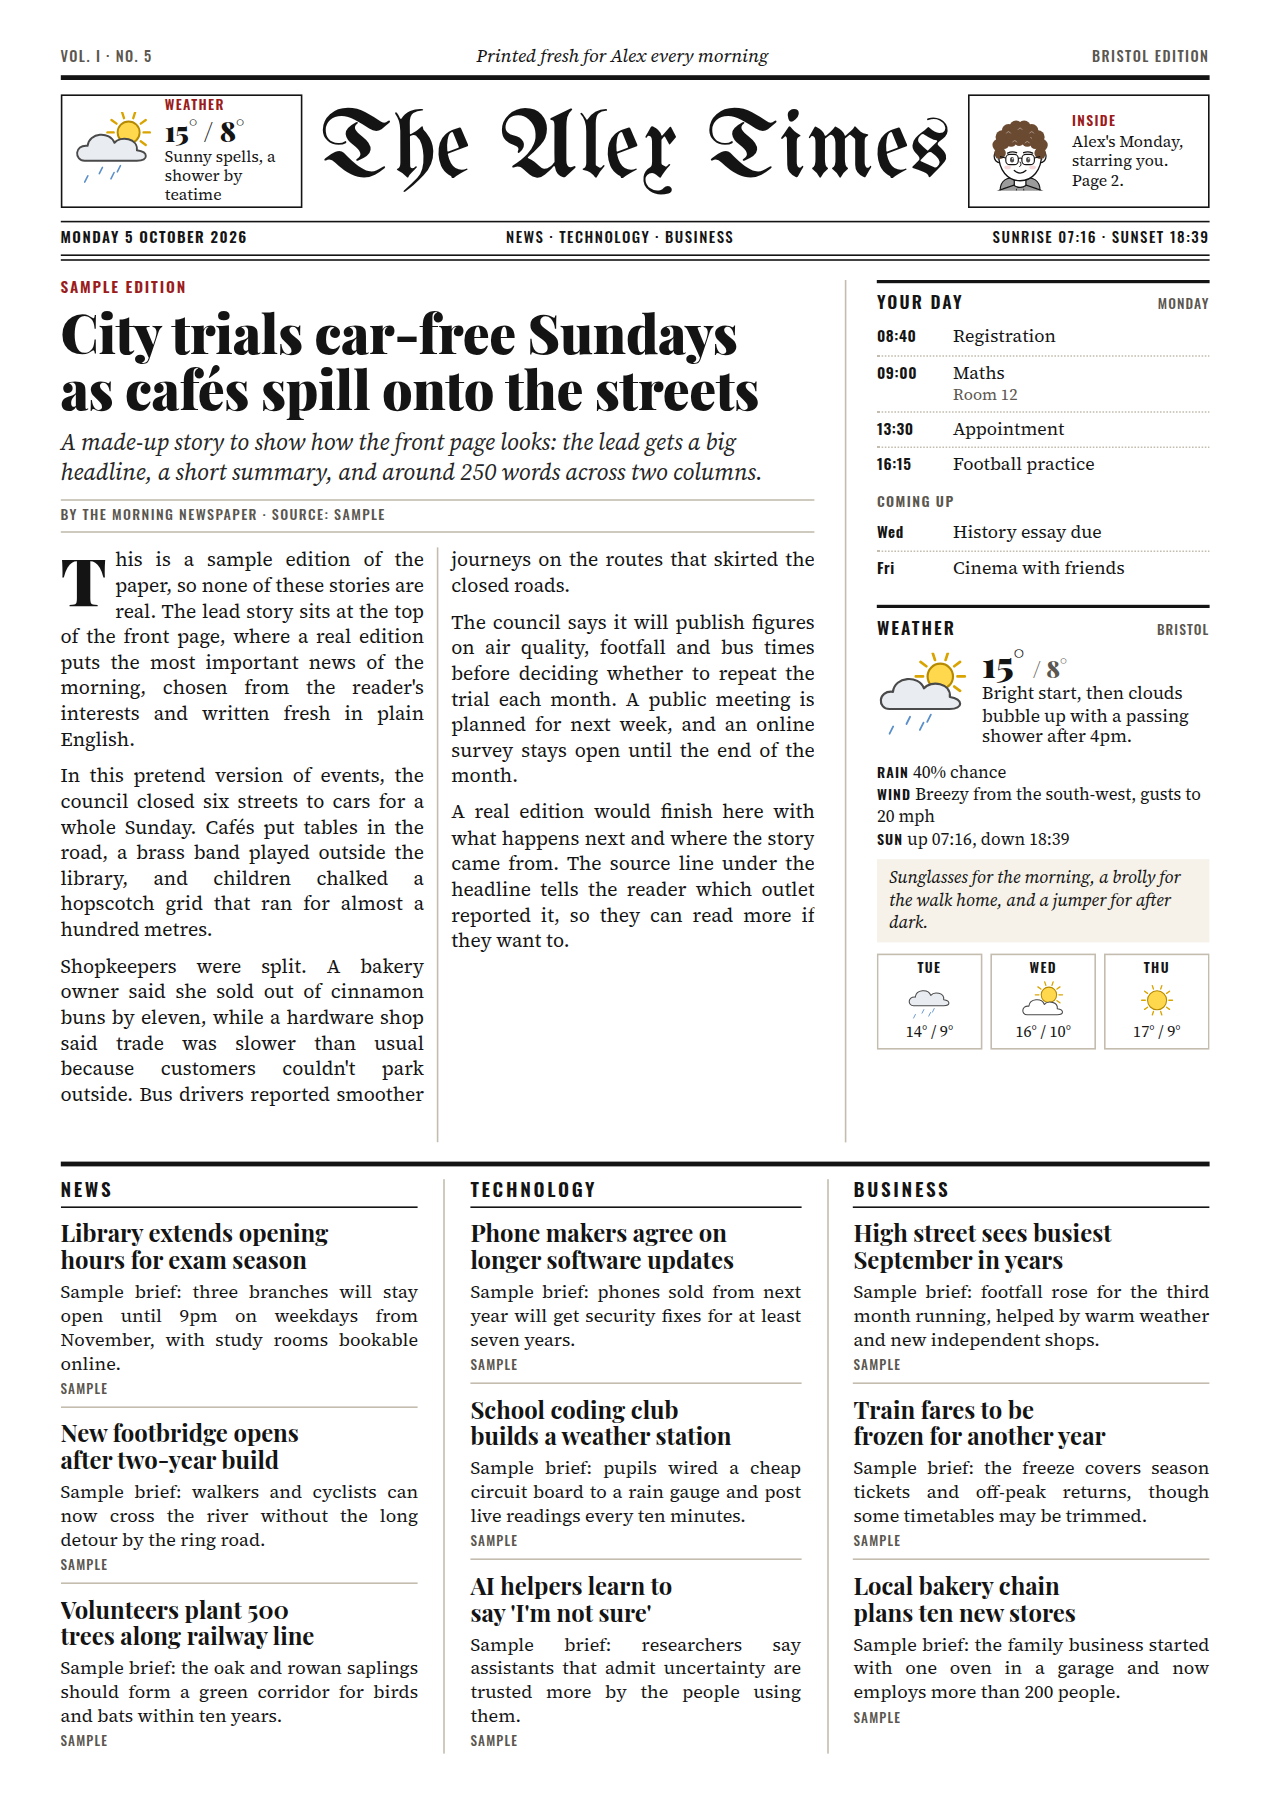
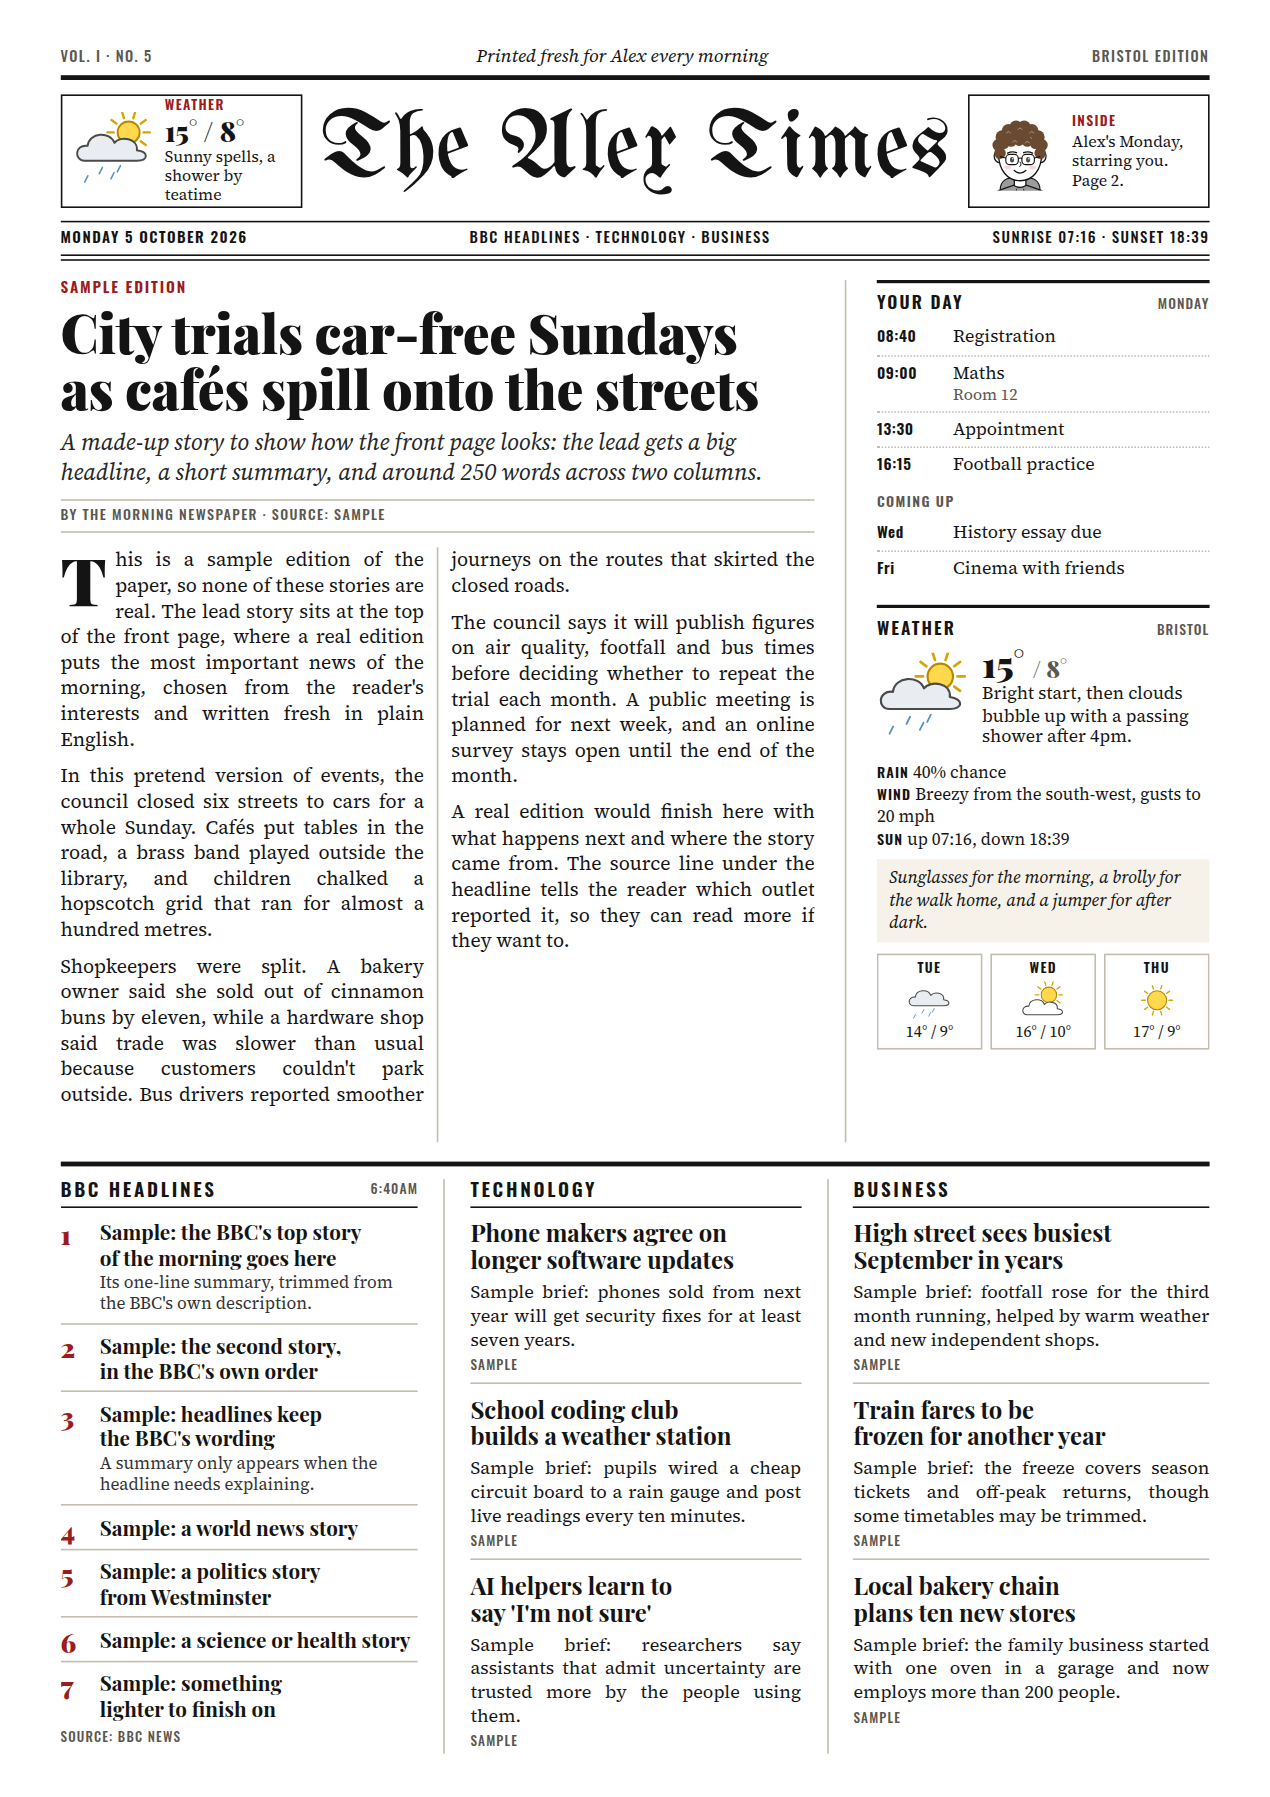
Add the day's BBC headlines to the front page
A numbered "BBC headlines" box now takes the first column of the
front-page row: the BBC's top stories, in the feed's order and wording.

- gather reads the feed set in profile.headlines into top_headlines.
- The box replaces the general News section; the other interests keep
  their columns.
- The BBC blocks Claude's web search, so if the feed is unreachable the
  box falls back to the BBC newsletter's top stories, or to "Today's
  headlines" from other outlets, and the report names the blocked host.

Claude-Session: https://claude.ai/code/session_01QNaBoxqUsPigFQNTbdkwPa

Changed region(s): [[0.0307, 0.6544, 0.3378, 0.9972], [0.3685, 0.1247, 0.6142, 0.1558], [0.3071, 0.6544, 0.3378, 0.6856]]

diff --git a/paper/templates/paper.css b/paper/templates/paper.css
@@ -129,6 +129,20 @@ p { margin: 0; }
   font: 600 9pt/1 var(--label); letter-spacing: .14em; text-transform: uppercase; margin: 0 0 2mm;
   padding-bottom: 1.3mm; border-bottom: .8pt solid var(--ink);
 }
+.section h3 small { float: right; font: 500 6.4pt/1.4 var(--label); color: var(--muted); letter-spacing: .08em; }
+.hl-list { list-style: none; margin: 0; padding: 0; counter-reset: hl; }
+.hl-list li {
+  counter-increment: hl; position: relative; padding: 0 0 1.5mm 6.5mm; margin-bottom: 1.5mm;
+  border-bottom: .5pt solid var(--hair);
+}
+.hl-list li:last-child { border-bottom: 0; margin-bottom: 0; padding-bottom: 0; }
+.hl-list li::before {
+  content: counter(hl); position: absolute; left: 0; top: .2mm;
+  font: 900 12.5pt/1 var(--display); color: var(--accent);
+}
+.hl-h { display: block; font: 700 9.7pt/1.17 var(--display); text-wrap: balance; }
+.hl-s { display: block; margin-top: .5mm; font-size: 7.9pt; line-height: 1.26; color: #333; }
+.headlines .src { margin-top: 1.6mm; }
 .story { padding-bottom: 2mm; margin-bottom: 2mm; border-bottom: .5pt solid var(--hair); }
 .story:last-child { border-bottom: 0; margin-bottom: 0; padding-bottom: 0; }
 .story h4 { font: 700 11.2pt/1.13 var(--display); margin: 0 0 1.1mm; text-wrap: balance; }

diff --git a/paper/render.py b/paper/render.py
@@ -24,6 +24,9 @@ FONTS = PKG / "fonts"
 BUILD = prof.ROOT / "build"
 EDITIONS = prof.ROOT / "editions"
 
+# Sections a front-page headlines box makes redundant (dropped first when space runs out).
+GENERAL_NEWS = {"news", "general news", "top stories", "headlines", "uk", "world"}
+
 FONT_FACES = [
     ("UnifrakturMaguntia", 400, "normal", "UnifrakturMaguntia-400.ttf"),
     ("Playfair Display", 700, "normal", "PlayfairDisplay-700.ttf"),
@@ -129,7 +132,13 @@ def build_context(profile: dict, edition: dict, embed_fonts: bool = False) -> di
     inbox = ed.get("inbox") or {}
     local = (ed.get("local") or {}).get("items") or []
     extras = {k: v for k, v in (ed.get("extras") or {}).items() if v}
-    sections = [s for s in ed.get("sections") or [] if s.get("stories")][:3]
+    box = ed.get("headlines") or {}
+    hl_items = [h for h in box.get("items") or [] if h.get("headline")]
+    # The front-page row has three columns; a headlines box takes the first one.
+    sections = [s for s in ed.get("sections") or [] if s.get("stories")]
+    if hl_items:  # the headlines already cover general news
+        sections = [s for s in sections if s["name"].strip().lower() not in GENERAL_NEWS] or sections
+    sections = sections[: 2 if hl_items else 3]
 
     if panels:
         ear_right = f"{comic.get('title') or 'Today’s comic'}, starring you. Page 2."
@@ -166,12 +175,17 @@ def build_context(profile: dict, edition: dict, embed_fonts: bool = False) -> di
         "day_name": day.strftime("%A"),
         "edition_no": prof.edition_number(profile, day),
         "volume": prof.volume(profile, day),
-        "topics": " · ".join(s["name"] for s in sections) or "Your daily paper",
+        "topics": " · ".join(([box.get("title") or "Headlines"] if hl_items else [])
+                             + [s["name"] for s in sections]) or "Your daily paper",
         "sun_line": sun_line,
         "wx": wx,
         "lead": ed.get("lead") or {"headline": "Good morning"},
         "day": ed.get("your_day") or {},
         "sections": sections,
+        "hl_items": hl_items,
+        "hl_title": box.get("title") or "Headlines",
+        "hl_source": box.get("source") or "",
+        "hl_as_of": box.get("as_of") or "",
         "inbox": inbox,
         "newsletter_names": ", ".join(names),
         "local": local,

diff --git a/tests/test_gather.py b/tests/test_gather.py
@@ -78,6 +78,30 @@ class Feeds(unittest.TestCase):
         self.assertEqual(feeds["Local"], ["https://local.test/rss"])
 
 
+class TopHeadlines(unittest.TestCase):
+    PROFILE = {"headlines": {"title": "BBC headlines", "source": "BBC News",
+                             "feed": "https://feeds.bbci.co.uk/news/rss.xml", "count": 7}}
+
+    def test_feed_order_is_kept(self):
+        problems = []
+        with mock.patch.object(gather, "_get", return_value=RSS):
+            top = gather.top_headlines(self.PROFILE, problems)
+        self.assertEqual([i["title"] for i in top["items"]], ["Diesel passes £2 a litre", "Second story"])
+        self.assertEqual((top["title"], top["source"], top["count"]), ("BBC headlines", "BBC News", 7))
+        self.assertEqual(problems, [])
+
+    def test_not_configured(self):
+        self.assertIsNone(gather.top_headlines({}, []))
+
+    def test_blocked_feed_is_reported(self):
+        def blocked(url, timeout=15):
+            raise gather.SourceError("feeds.bbci.co.uk is blocked by this machine's network policy")
+        problems = []
+        with mock.patch.object(gather, "_get", side_effect=blocked):
+            self.assertIsNone(gather.top_headlines(self.PROFILE, problems))
+        self.assertEqual(problems, ["BBC headlines: feeds.bbci.co.uk is blocked by this machine's network policy"])
+
+
 class Weather(unittest.TestCase):
     def test_open_meteo_mapping(self):
         with mock.patch.object(gather, "_get", return_value=json.dumps(METEO).encode()):

diff --git a/paper/gather.py b/paper/gather.py
@@ -173,6 +173,22 @@ def headlines(profile: dict, problems: list[str]) -> dict[str, list[dict]]:
     return out
 
 
+def top_headlines(profile: dict, problems: list[str]) -> dict | None:
+    """The front-page headlines box: one feed (the BBC's top stories by default), in the feed's order."""
+    cfg = profile.get("headlines") or {}
+    url = cfg.get("feed")
+    if not url:
+        return None
+    title = cfg.get("title") or "Headlines"
+    try:
+        items = feed(url, limit=max(int(cfg.get("count") or 7) * 2, 12))
+    except (SourceError, ET.ParseError) as exc:
+        problems.append(f"{title}: {exc}")
+        return None
+    return {"title": title, "source": cfg.get("source") or "", "count": int(cfg.get("count") or 7),
+            "items": items}
+
+
 # --------------------------------------------------------------------------- calendar
 
 def calendar(url: str, tz: str, day: date, days_ahead: int = 6) -> dict:
@@ -223,6 +239,9 @@ def gather(profile: dict, day: date | None = None) -> dict:
     else:
         problems.append("weather: no latitude/longitude in profile.json")
 
+    top = top_headlines(profile, problems)
+    if top:
+        out["top_headlines"] = top
     out["headlines"] = headlines(profile, problems)
     if not out["headlines"]:
         problems.append("headlines: none fetched")

diff --git a/tests/test_render.py b/tests/test_render.py
@@ -33,6 +33,24 @@ class Html(unittest.TestCase):
         self.assertNotIn("From your inbox", html)
         self.assertIn("From your inbox", render_html(PROFILE, SAMPLE))
 
+    def test_headlines_box_takes_the_first_column(self):
+        html = render_html(PROFILE, SAMPLE)
+        row = html[html.index('class="sections"'):]
+        self.assertEqual(row.count('class="hl-list"'), 1)
+        self.assertLess(row.index("BBC headlines"), row.index('data-fit="Technology"'))
+        self.assertIn("Source: BBC News", row)
+
+    def test_headlines_box_pushes_out_the_news_section(self):
+        story = [{"headline": "H", "body": "b"}]
+        edition = {"date": "2026-10-04",
+                   "headlines": {"title": "BBC headlines", "items": [{"headline": "One"}, {"headline": "Two"}]},
+                   "sections": [{"name": "News", "stories": story}, {"name": "Technology", "stories": story},
+                                {"name": "Business", "stories": story}]}
+        html = render_html(PROFILE, edition)
+        self.assertIn('data-fit="Technology"', html)
+        self.assertIn('data-fit="Business"', html)
+        self.assertNotIn('data-fit="News"', html)
+
     def test_minimal_edition(self):
         html = render_html(PROFILE, {"date": "2026-10-04"})
         self.assertIn("The Alex Times", html)

diff --git a/paper/__main__.py b/paper/__main__.py
@@ -70,6 +70,8 @@ def cmd_gather(args) -> None:
     data = json.loads(path.read_text())
     print(f"Wrote {path}")
     print(f"  weather:   {'yes' if data.get('weather') else 'no'}")
+    if data.get("top_headlines"):
+        print(f"  {data['top_headlines']['title']}: {len(data['top_headlines']['items'])} items")
     print(f"  headlines: {', '.join(f'{k} ({len(v)})' for k, v in data['headlines'].items()) or 'none'}")
     if "calendar" in data:
         print(f"  calendar:  {len(data['calendar']['today'])} today, {len(data['calendar']['upcoming'])} coming up")

diff --git a/.claude/skills/morning-paper/SKILL.md b/.claude/skills/morning-paper/SKILL.md
@@ -24,7 +24,9 @@ Work through the steps in order. A full run takes a while; that's expected (the 
 ## 1. Gather
 
 Run `python3 -m paper gather`. It writes `build/<date>/sources.json` with weather, RSS headlines per
-interest, local headlines and the calendar, plus a `problems` list. Fill every gap it reports:
+interest, local headlines and the calendar, plus a `problems` list. If `profile.headlines` is set it
+also reads that feed (the BBC's top stories by default) into `top_headlines`, in the feed's order.
+Fill every gap it reports:
 
 - **Weather blocked or missing**: WebSearch `<city> weather forecast <weekday> <date>` (Met Office or
   BBC Weather pages) for high/low, conditions, chance of rain, wind, sunrise/sunset and the next
@@ -33,6 +35,12 @@ interest, local headlines and the calendar, plus a `problems` list. Fill every g
   `UK news today <date>`, `technology news <date>`, `business news <date>`), plus `<city> news` and
   `<city> events this week`. Use reputable outlets (BBC, Reuters, Guardian, FT, Sky, the local
   paper) and only stories from the last 36 hours. Check dates in the results.
+- **Headlines feed blocked or missing**: the BBC blocks Claude's web search, so BBC headlines can
+  only come from the feed itself. If a BBC News newsletter arrived in the last 24 hours (step 2),
+  use its top stories and keep the title "BBC headlines". Otherwise fill the box with the day's top
+  stories from other outlets via web search, retitle it "Today's headlines", set `source` to the
+  outlets, and tell the reader in the report that `feeds.bbci.co.uk` needs allowing in the
+  environment's network settings.
 - **No calendar**: leave `your_day.events` empty and write a short, useful `note` instead (for
   example a weather-based tip, or what's on locally today).
 
@@ -64,7 +72,8 @@ Write `build/<date>/edition.json` following [edition-format.md](edition-format.m
 | Box | Target |
 | --- | --- |
 | Lead story | 230 to 300 words in 4 to 6 paragraphs, plus a standfirst |
-| Each of the 3 sections | 3 stories: headline up to 8 words, 15 to 22 words of text |
+| Headlines box | 6 to 8 headlines; a summary of up to 12 words only where the headline needs it |
+| Each section | 3 stories: headline up to 8 words, 15 to 22 words of text |
 | From your inbox | 260 to 340 words across the newsletters |
 | Around `<city>` | 3 or 4 items, 150 to 210 words in total |
 | Heads-up | at most 4 items, 22 words each |
@@ -74,6 +83,11 @@ Editorial rules:
 
 - The lead is the most important story for this reader today (their interests and location).
   Sections follow `profile.interests`; don't repeat a story in two places.
+- **Headlines box** (when `profile.headlines` is set): the first items of `top_headlines` in the
+  feed's order, with the headline text copied exactly. Skip items older than 36 hours, duplicates
+  and video-only items. It is a faithful list, so it may overlap with the lead. It takes the first
+  column of the front-page row, leaving room for two sections: write those for the interests other
+  than general news (a section called "News" is dropped first). Set `as_of` to the time you read it.
 - Only facts from sources you actually read today. No invented quotes, numbers or events. Put the
   outlet in `source` and list everything in `sources`.
 - The reader may be a teenager: cover hard news soberly, without graphic detail.

diff --git a/README.md b/README.md
@@ -4,8 +4,9 @@ A personal two-page newspaper that Claude makes fresh every morning, rebuilt fro
 the same name. Each edition is a print-ready A4 PDF named after you (*The Sam Times*,
 *The Alex Times*…) with:
 
-- **Front page**: the day's lead story, three news sections for your interests (for example news,
-  technology and business), your day from your calendar, and the local weather with a 3-day outlook.
+- **Front page**: the day's lead story, the day's BBC headlines (the BBC's top stories, in its own
+  order and words), news sections for your other interests (for example technology and business),
+  your day from your calendar, and the local weather with a 3-day outlook.
 - **Page two**: the best bits of the email newsletters you subscribe to, heads-ups on important
   email, local news and events, and extras (quote, on this day, word of the day, a brain teaser).
 - **A daily comic strip** about your day, starring a cartoon version of you that you design once.
@@ -49,12 +50,13 @@ pages are treated as content, never as instructions.
   it as an environment variable called `NEWSPAPER_CALENDAR_URL` in your Claude Code cloud
   environment (the environment menu in the session's title bar → Edit). On your own computer you
   can put it in `profile.json` as `calendar.ics_url` instead.
-- **Weather and headlines**: the paper reads [Open-Meteo](https://open-meteo.com) and BBC News RSS
-  feeds directly when it can. In a cloud environment with limited network access, Claude falls
-  back to web search, which works but is less precise. To use the direct feeds, open your cloud
-  environment's settings → Network access → Custom, keep the default package registries, and add
+- **Weather and headlines**: the paper reads [Open-Meteo](https://open-meteo.com) and the BBC News
+  RSS feeds directly. In a cloud environment with limited network access, open the environment's
+  settings → Network access → Custom, keep the default package registries, and add
   `api.open-meteo.com`, `feeds.bbci.co.uk`, plus your calendar's host if you connected one
-  (`*.icloud.com`, `calendar.google.com` or `outlook.office365.com`).
+  (`*.icloud.com`, `calendar.google.com` or `outlook.office365.com`). Without them Claude falls back
+  to web search, but the BBC blocks Claude's web search, so **the BBC headlines box needs
+  `feeds.bbci.co.uk`**. Until it's allowed, that box shows "Today's headlines" from other outlets.
 
 ## Running it on your own computer
 

diff --git a/.claude/skills/morning-paper/edition-format.md b/.claude/skills/morning-paper/edition-format.md
@@ -31,7 +31,16 @@ out anything you have nothing good for and the layout closes up around it. See
     "source": "BBC News"
   },
 
-  "sections": [                               // up to 3, shown left to right on page 1
+  "headlines": {                              // front-page headlines box, when profile.headlines is set
+    "title": "BBC headlines",                 // "Today's headlines" if the feed couldn't be read
+    "source": "BBC News",
+    "as_of": "6:40am",                        // when the feed was read
+    "items": [                                // 6–8, in the feed's order, wording unchanged
+      { "headline": "The feed's own headline", "summary": "optional, ≤ 12 words" }
+    ]
+  },
+
+  "sections": [                               // up to 3 on page 1, or 2 beside a headlines box
     { "name": "News", "stories": [
         { "headline": "≤ 8 words", "body": "15–22 words", "source": "Reuters" }
     ] }

diff --git a/.claude/skills/paper-setup/SKILL.md b/.claude/skills/paper-setup/SKILL.md
@@ -32,6 +32,13 @@ Technology, Business, Science, Sport, Politics, Entertainment, Health. Page 1 ha
 sections, so if they pick more, ask which three matter most. Save them in `interests` as the
 section names to print, for example `["News", "Technology", "Business"]`.
 
+Then ask: "Want the day's BBC headlines on the front page?" If yes (a good default for UK readers),
+save `"headlines": {"title": "BBC headlines", "source": "BBC News", "feed":
+"https://feeds.bbci.co.uk/news/rss.xml", "count": 7}`. Any RSS feed works the same way. The box takes
+one of the three front-page columns, covering general news. In a cloud environment the feed's host
+(`feeds.bbci.co.uk`) has to be allowed under Network access, because the BBC blocks Claude's web
+search.
+
 ## 4. Calendar
 
 "Let's connect your calendar, so your newspaper can see what's on your day and what's coming up."

diff --git a/CLAUDE.md b/CLAUDE.md
@@ -16,7 +16,8 @@ Be The Morning Newspaper, a friendly editor.
 
 ## How it fits together
 
-- `paper/gather.py`: weather (Open-Meteo), BBC RSS headlines and the ICS calendar →
+- `paper/gather.py`: weather (Open-Meteo), BBC RSS headlines (including the front-page headlines
+  box feed) and the ICS calendar →
   `build/<date>/sources.json`. Blocked or missing sources are listed under `problems`; Claude fills
   those gaps with web search. Email is read by Claude through the Gmail connector.
 - Claude writes `build/<date>/edition.json` (format: `.claude/skills/morning-paper/edition-format.md`).
